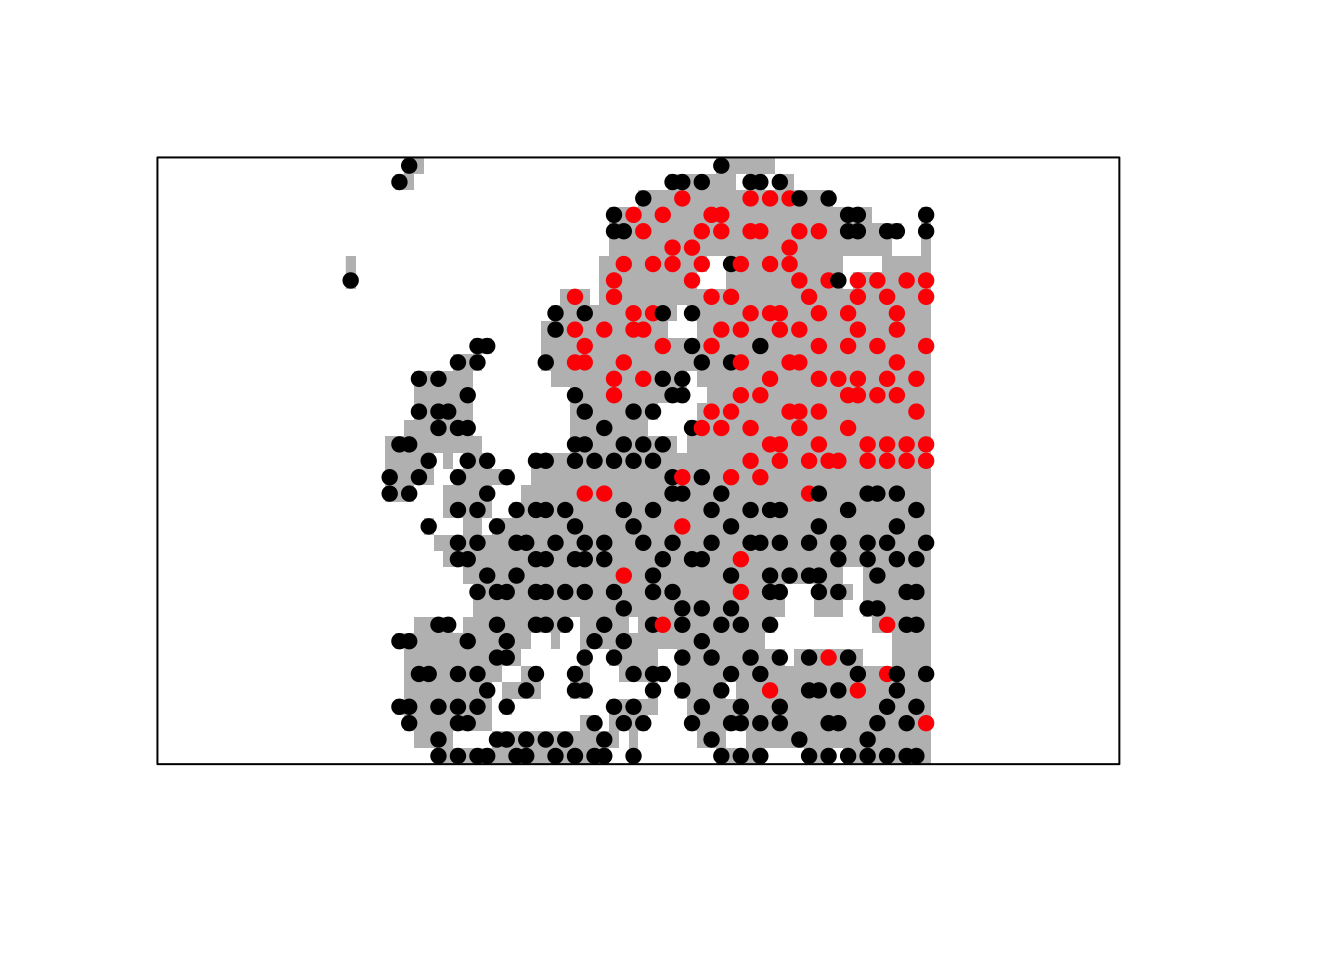
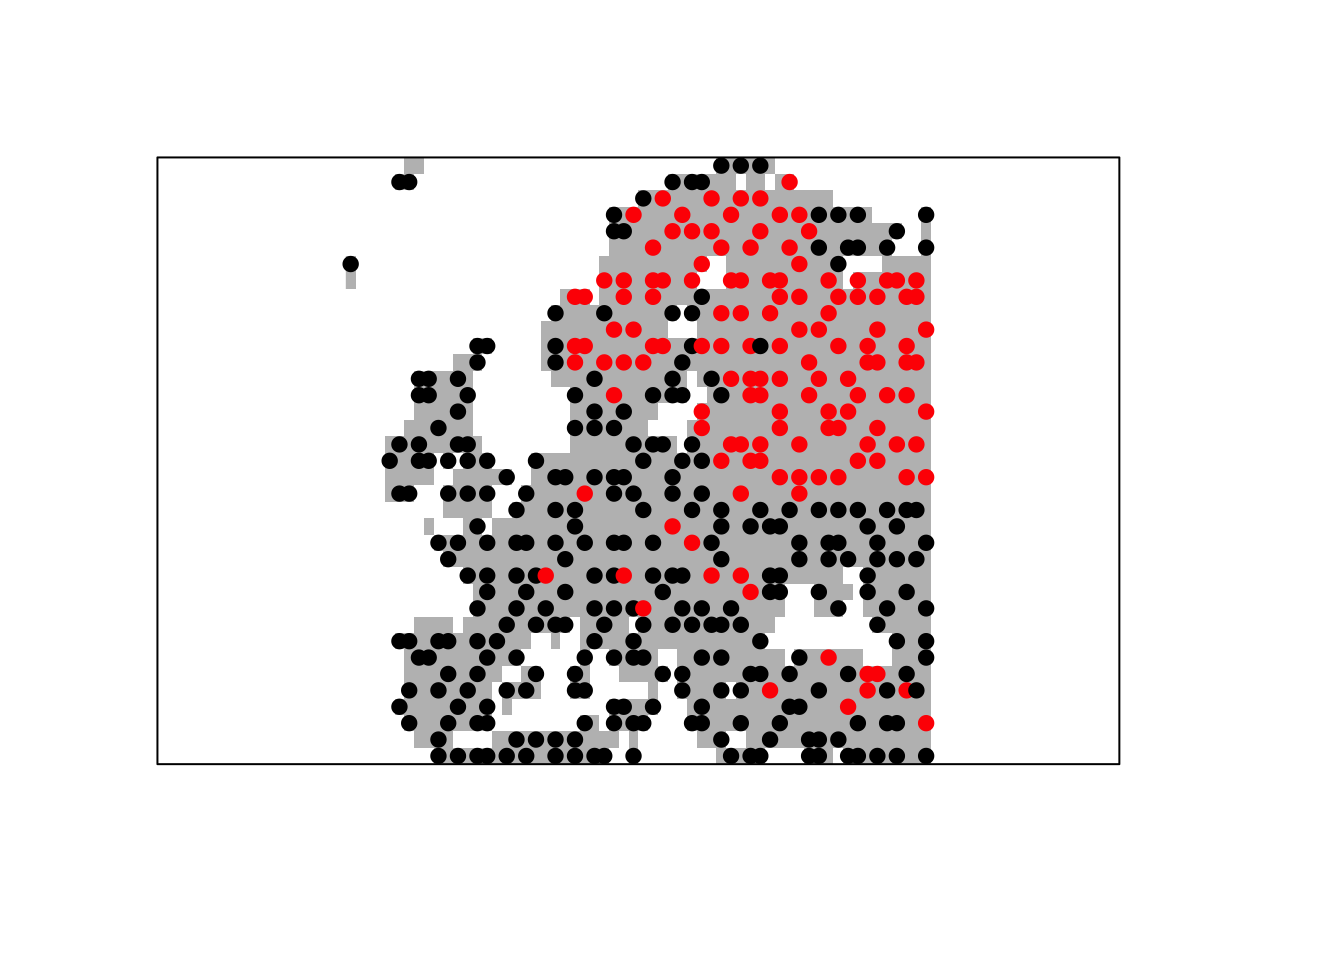
add seed

Changed region(s): [[0.2812, 0.1562, 0.7188, 0.8125], [0.25, 0.25, 0.2812, 0.3125], [0.2812, 0.1562, 0.3125, 0.1875]]

diff --git a/5_SDM_intro.html b/5_SDM_intro.html
@@ -646,6 +646,7 @@ values(bg)[!is.na(values(bg))] &lt;- 0
 mask &lt;- aggregate(bg,2)
 
 # Thinned coordinates
+set.seed(54321)
 xy &lt;- gridSample(lynx_dist[,1:2], mask, n=1)
 
 # Checking number of data points 
@@ -689,20 +690,20 @@ summary(m1) </code></pre>
 ## 
 ## Deviance Residuals: 
 ##     Min       1Q   Median       3Q      Max  
-## -2.1296  -0.5018  -0.1673   0.5149   2.6122  
+## -2.1111  -0.5182  -0.1931   0.5379   2.5215  
 ## 
 ## Coefficients:
 ##              Estimate Std. Error z value Pr(&gt;|z|)    
-## (Intercept) -2.103553   0.230201  -9.138   &lt;2e-16 ***
-## bio11       -0.035516   0.003491 -10.174   &lt;2e-16 ***
+## (Intercept) -1.927642   0.213014  -9.049   &lt;2e-16 ***
+## bio11       -0.033683   0.003295 -10.222   &lt;2e-16 ***
 ## ---
 ## Signif. codes:  0 &#39;***&#39; 0.001 &#39;**&#39; 0.01 &#39;*&#39; 0.05 &#39;.&#39; 0.1 &#39; &#39; 1
 ## 
 ## (Dispersion parameter for binomial family taken to be 1)
 ## 
-##     Null deviance: 525.14  on 422  degrees of freedom
-## Residual deviance: 295.57  on 421  degrees of freedom
-## AIC: 299.57
+##     Null deviance: 531.29  on 422  degrees of freedom
+## Residual deviance: 309.04  on 421  degrees of freedom
+## AIC: 313.04
 ## 
 ## Number of Fisher Scoring iterations: 6</code></pre>
 <div id="deviance-and-aic" class="section level3" number="4.1.1">
@@ -888,24 +889,20 @@ out the help pages for <code>?select07</code>.</p>
 var_sel &lt;- select07(X=lynx_thinned[,-c(1:3)], 
                     y=lynx_thinned$occ, 
                     threshold=0.7)</code></pre>
-<pre><code>## Warning: glm.fit: fitted probabilities numerically 0 or 1 occurred
-
-## Warning: glm.fit: fitted probabilities numerically 0 or 1 occurred
-
-## Warning: glm.fit: fitted probabilities numerically 0 or 1 occurred</code></pre>
+<pre><code>## Warning: glm.fit: fitted probabilities numerically 0 or 1 occurred</code></pre>
 <pre class="r"><code># Check out the structure of the resulting object:
 str(var_sel)</code></pre>
 <pre><code>## List of 3
-##  $ AIC     : Named num [1:19] 299 299 303 329 363 ...
-##   ..- attr(*, &quot;names&quot;)= chr [1:19] &quot;bio11&quot; &quot;bio1&quot; &quot;bio6&quot; &quot;bio9&quot; ...
-##  $ cor_mat : num [1:19, 1:19] 1 0.318 0.754 -0.516 0.804 ...
+##  $ AIC     : Named num [1:19] 311 311 322 349 384 ...
+##   ..- attr(*, &quot;names&quot;)= chr [1:19] &quot;bio11&quot; &quot;bio6&quot; &quot;bio1&quot; &quot;bio9&quot; ...
+##  $ cor_mat : num [1:19, 1:19] 1 0.347 0.761 -0.528 0.807 ...
 ##   ..- attr(*, &quot;dimnames&quot;)=List of 2
 ##   .. ..$ : chr [1:19] &quot;bio1&quot; &quot;bio2&quot; &quot;bio3&quot; &quot;bio4&quot; ...
 ##   .. ..$ : chr [1:19] &quot;bio1&quot; &quot;bio2&quot; &quot;bio3&quot; &quot;bio4&quot; ...
-##  $ pred_sel: chr [1:9] &quot;bio11&quot; &quot;bio10&quot; &quot;bio7&quot; &quot;bio15&quot; ...</code></pre>
+##  $ pred_sel: chr [1:8] &quot;bio11&quot; &quot;bio10&quot; &quot;bio7&quot; &quot;bio15&quot; ...</code></pre>
 <pre class="r"><code># We extract the names of the weakly correlated predictors ordered by the univariate variable importance in terms of AIC:
 pred_sel &lt;- var_sel$pred_sel</code></pre>
-<p>So, we have now reduced our set of 19 bioclimatic variables to 7
+<p>So, we have now reduced our set of 19 bioclimatic variables to 8
 predictors that are only weakly correlated. Now, we need to decide
 whether all of these should be included in the final model, or if we
 select only a few, for example the two most important variables in terms
@@ -914,11 +911,12 @@ points per parameter fitted in the model <span class="citation">(Guisan,
 Thuiller, and Zimmermann 2017)</span>.</p>
 <pre class="r"><code># How many presence points do we have?
 sum(lynx_thinned$occ)</code></pre>
-<pre><code>## [1] 132</code></pre>
-<p>According to the rule of thumb, we can include up to 13 parameters,
-meaning we can include linear and quadratic terms for all our 7 weakly
-correlated variables. But for simplicity, let’s start with 2 variables.
-The most important in terms of AIC were bio6 and bio10.</p>
+<pre><code>## [1] 136</code></pre>
+<p>According to the rule of thumb, we can include up to 13-14
+parameters, meaning we can include linear and quadratic terms for almost
+all of the weakly correlated variables. But for simplicity, let’s start
+with 2 variables. The most important in terms of AIC were bio6 and
+bio10.</p>
 </div>
 </div>
 <div id="model-selection" class="section level2" number="4.5">
@@ -929,9 +927,9 @@ called model selection. Here, I only use the two most important
 variables and include linear and quadratic terms in the full model.</p>
 <pre class="r"><code># Fit the full model:
 m1 &lt;- glm( occ ~ bio6 + I(bio6^2) + bio10 + I(bio10^2), 
-               family=&#39;binomial&#39;, data=lynx_thinned)</code></pre>
-<pre><code>## Warning: glm.fit: fitted probabilities numerically 0 or 1 occurred</code></pre>
-<pre class="r"><code># Inspect the model:
+               family=&#39;binomial&#39;, data=lynx_thinned)
+
+# Inspect the model:
 summary(m1)</code></pre>
 <pre><code>## 
 ## Call:
@@ -940,23 +938,23 @@ summary(m1)</code></pre>
 ## 
 ## Deviance Residuals: 
 ##     Min       1Q   Median       3Q      Max  
-## -2.3131  -0.3513  -0.0180   0.3780   3.4644  
+## -2.1116  -0.3996  -0.0316   0.4443   3.1844  
 ## 
 ## Coefficients:
 ##               Estimate Std. Error z value Pr(&gt;|z|)    
-## (Intercept) -2.255e+01  3.478e+00  -6.483 8.97e-11 ***
-## bio6        -5.538e-02  1.327e-02  -4.172 3.02e-05 ***
-## I(bio6^2)   -1.208e-04  6.653e-05  -1.816   0.0694 .  
-## bio10        2.712e-01  4.801e-02   5.648 1.62e-08 ***
-## I(bio10^2)  -9.430e-04  1.690e-04  -5.579 2.42e-08 ***
+## (Intercept) -1.925e+01  3.056e+00  -6.298 3.02e-10 ***
+## bio6        -5.372e-02  1.230e-02  -4.368 1.25e-05 ***
+## I(bio6^2)   -1.211e-04  6.165e-05  -1.965   0.0494 *  
+## bio10        2.220e-01  4.124e-02   5.382 7.35e-08 ***
+## I(bio10^2)  -7.588e-04  1.410e-04  -5.381 7.39e-08 ***
 ## ---
 ## Signif. codes:  0 &#39;***&#39; 0.001 &#39;**&#39; 0.01 &#39;*&#39; 0.05 &#39;.&#39; 0.1 &#39; &#39; 1
 ## 
 ## (Dispersion parameter for binomial family taken to be 1)
 ## 
-##     Null deviance: 525.14  on 422  degrees of freedom
-## Residual deviance: 241.06  on 418  degrees of freedom
-## AIC: 251.06
+##     Null deviance: 531.29  on 422  degrees of freedom
+## Residual deviance: 260.14  on 418  degrees of freedom
+## AIC: 270.14
 ## 
 ## Number of Fisher Scoring iterations: 8</code></pre>
 <p>How much deviance is explained by our model? The function
@@ -967,15 +965,12 @@ the data in relation to the null model predictions.</p>
 <pre class="r"><code># Explained deviance:
 expl_deviance(obs = lynx_thinned$occ,
               pred = m1$fitted)</code></pre>
-<pre><code>## [1] 0.54096</code></pre>
+<pre><code>## [1] 0.5103614</code></pre>
 <p>We can simplify the model further by using stepwise variable
 selection. The function <code>step()</code> uses the AIC to compare
 different subsets of the model. Specifically, it will iteratively drop
 variables and add variables until the AIC cannot be improved further
 (meaning it will not decrease further).</p>
-<pre><code>## Warning: glm.fit: fitted probabilities numerically 0 or 1 occurred
-
-## Warning: glm.fit: fitted probabilities numerically 0 or 1 occurred</code></pre>
 <pre class="r"><code>m_step &lt;- step(m1) </code></pre>
 <pre class="r"><code># Inspect the model:
 summary(m_step)</code></pre>
@@ -986,29 +981,29 @@ summary(m_step)</code></pre>
 ## 
 ## Deviance Residuals: 
 ##     Min       1Q   Median       3Q      Max  
-## -2.3131  -0.3513  -0.0180   0.3780   3.4644  
+## -2.1116  -0.3996  -0.0316   0.4443   3.1844  
 ## 
 ## Coefficients:
 ##               Estimate Std. Error z value Pr(&gt;|z|)    
-## (Intercept) -2.255e+01  3.478e+00  -6.483 8.97e-11 ***
-## bio6        -5.538e-02  1.327e-02  -4.172 3.02e-05 ***
-## I(bio6^2)   -1.208e-04  6.653e-05  -1.816   0.0694 .  
-## bio10        2.712e-01  4.801e-02   5.648 1.62e-08 ***
-## I(bio10^2)  -9.430e-04  1.690e-04  -5.579 2.42e-08 ***
+## (Intercept) -1.925e+01  3.056e+00  -6.298 3.02e-10 ***
+## bio6        -5.372e-02  1.230e-02  -4.368 1.25e-05 ***
+## I(bio6^2)   -1.211e-04  6.165e-05  -1.965   0.0494 *  
+## bio10        2.220e-01  4.124e-02   5.382 7.35e-08 ***
+## I(bio10^2)  -7.588e-04  1.410e-04  -5.381 7.39e-08 ***
 ## ---
 ## Signif. codes:  0 &#39;***&#39; 0.001 &#39;**&#39; 0.01 &#39;*&#39; 0.05 &#39;.&#39; 0.1 &#39; &#39; 1
 ## 
 ## (Dispersion parameter for binomial family taken to be 1)
 ## 
-##     Null deviance: 525.14  on 422  degrees of freedom
-## Residual deviance: 241.06  on 418  degrees of freedom
-## AIC: 251.06
+##     Null deviance: 531.29  on 422  degrees of freedom
+## Residual deviance: 260.14  on 418  degrees of freedom
+## AIC: 270.14
 ## 
 ## Number of Fisher Scoring iterations: 8</code></pre>
 <pre class="r"><code># Explained deviance:
 expl_deviance(obs = lynx_thinned$occ,
               pred = m_step$fitted)</code></pre>
-<pre><code>## [1] 0.54096</code></pre>
+<pre><code>## [1] 0.5103614</code></pre>
 <p>The final model only selected the linear terms for bio11 and bio8.
 The explained deviance is a tiny bit lower than for the quadratic model,
 but the linear model is more parsimonious.</p>
